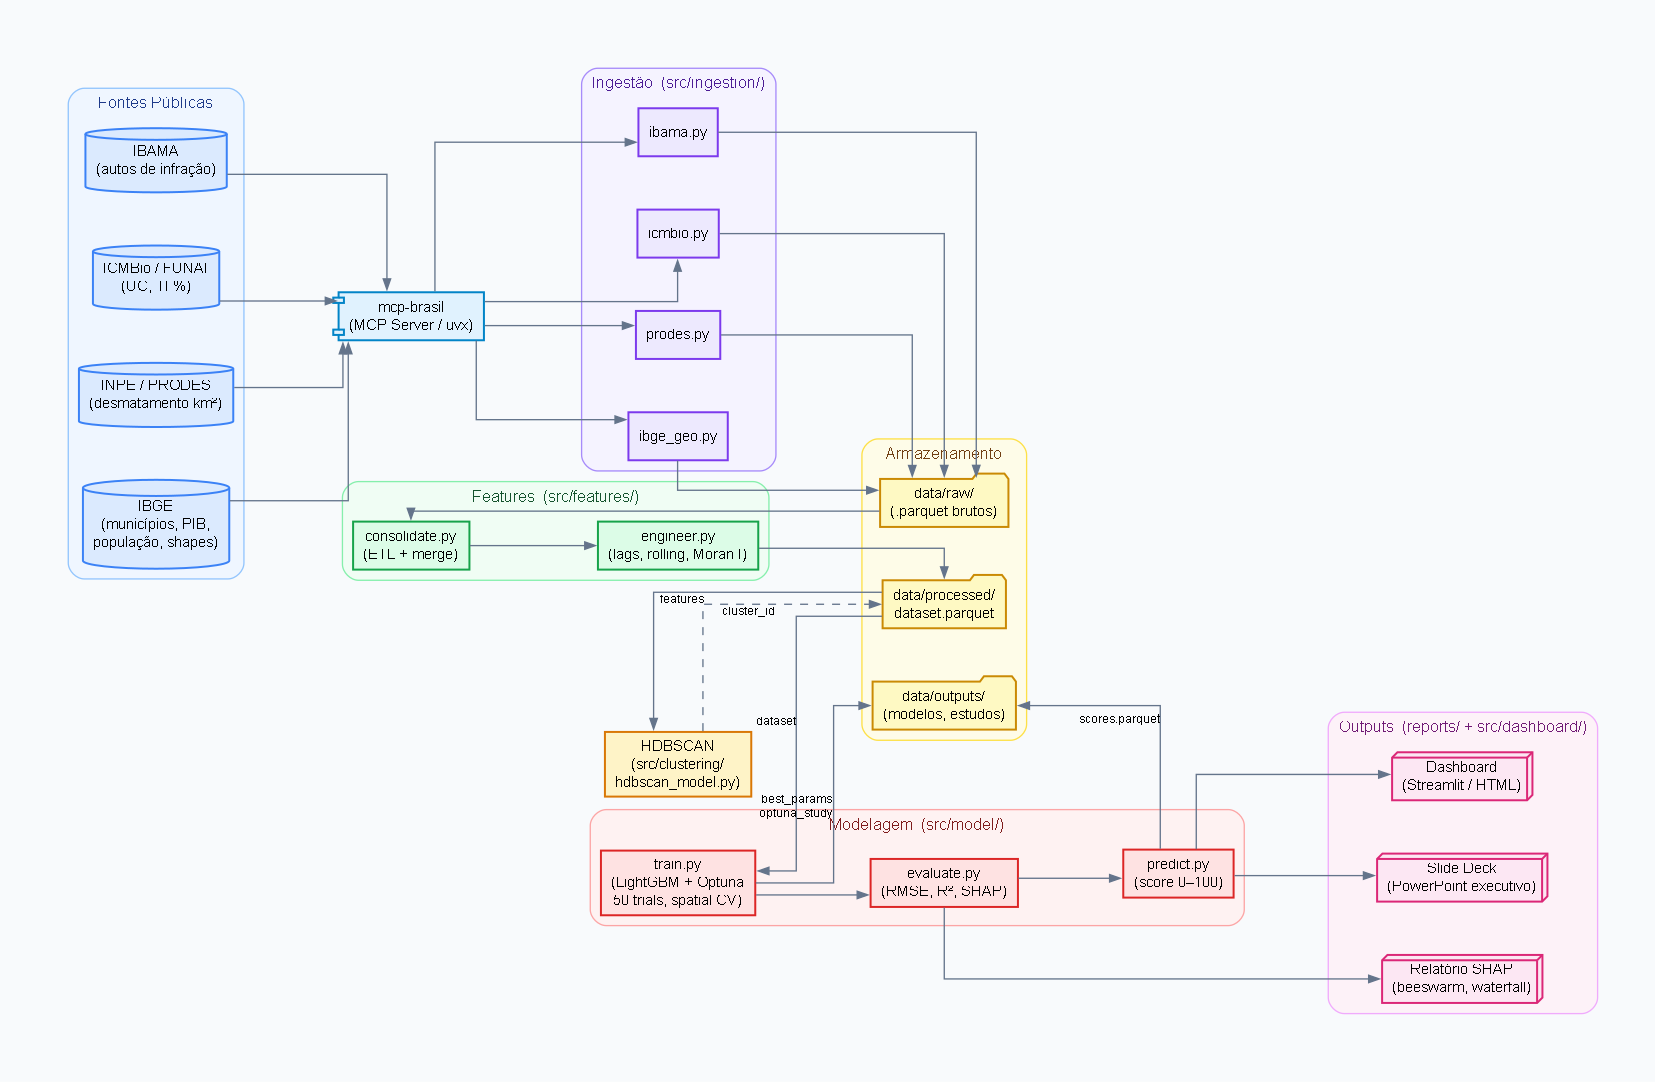
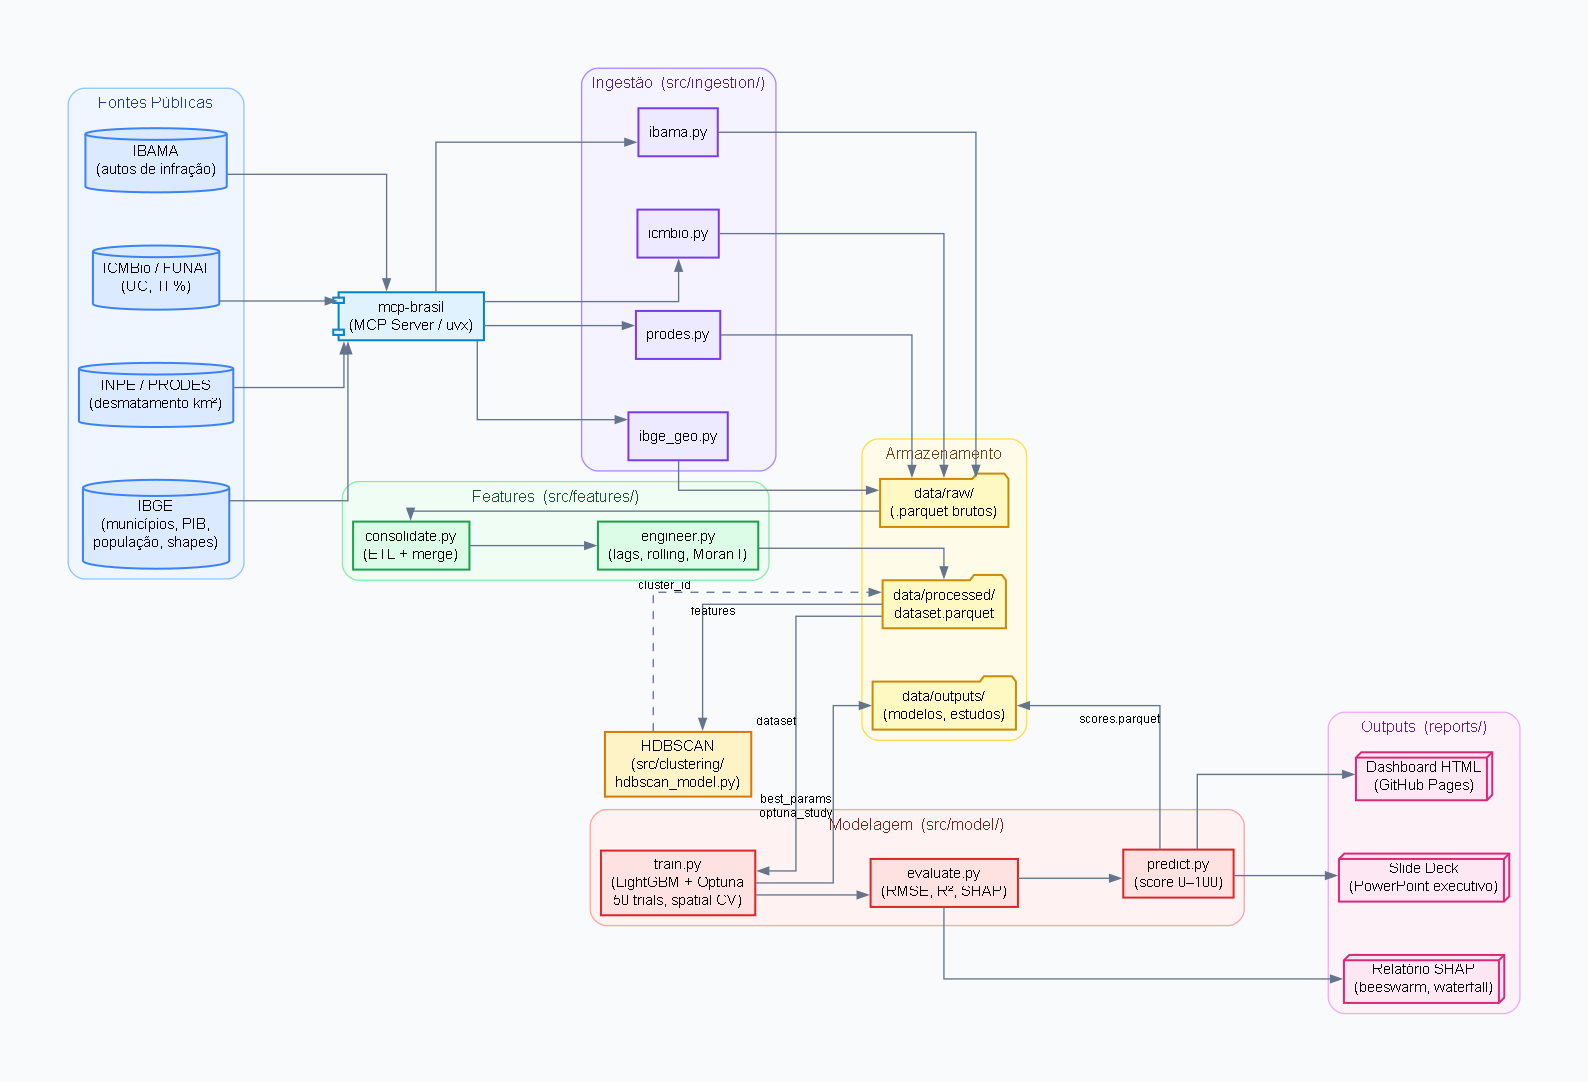
chore(reports): atualizar diagrama de arquitetura — Dashboard HTML/GitHub Pages
Remove referência ao Streamlit, atualiza nó de output para
'Dashboard HTML (GitHub Pages)' e regenera reports/arquitetura.png.

diff --git a/src/reports/build_arquitetura.py b/src/reports/build_arquitetura.py
@@ -95,11 +95,11 @@ with dot.subgraph(name="cluster_model") as s:
 
 # ── Outputs ───────────────────────────────────────────────────────────────────
 with dot.subgraph(name="cluster_out") as s:
-    s.attr(label="Outputs  (reports/ + src/dashboard/)", style="rounded,filled",
+    s.attr(label="Outputs  (reports/)", style="rounded,filled",
            fillcolor="#fdf2f8", color="#f0abfc", fontsize="12", fontcolor="#701a75")
-    s.node("dash",   "Dashboard\n(Streamlit / HTML)",      **OUTPUT_node)
+    s.node("dash",   "Dashboard HTML\n(GitHub Pages)",        **OUTPUT_node)
     s.node("shap",   "Relatório SHAP\n(beeswarm, waterfall)", **OUTPUT_node)
-    s.node("slides", "Slide Deck\n(PowerPoint executivo)", **OUTPUT_node)
+    s.node("slides", "Slide Deck\n(PowerPoint executivo)",    **OUTPUT_node)
 
 # ── Arestas ───────────────────────────────────────────────────────────────────
 # Fontes → MCP
